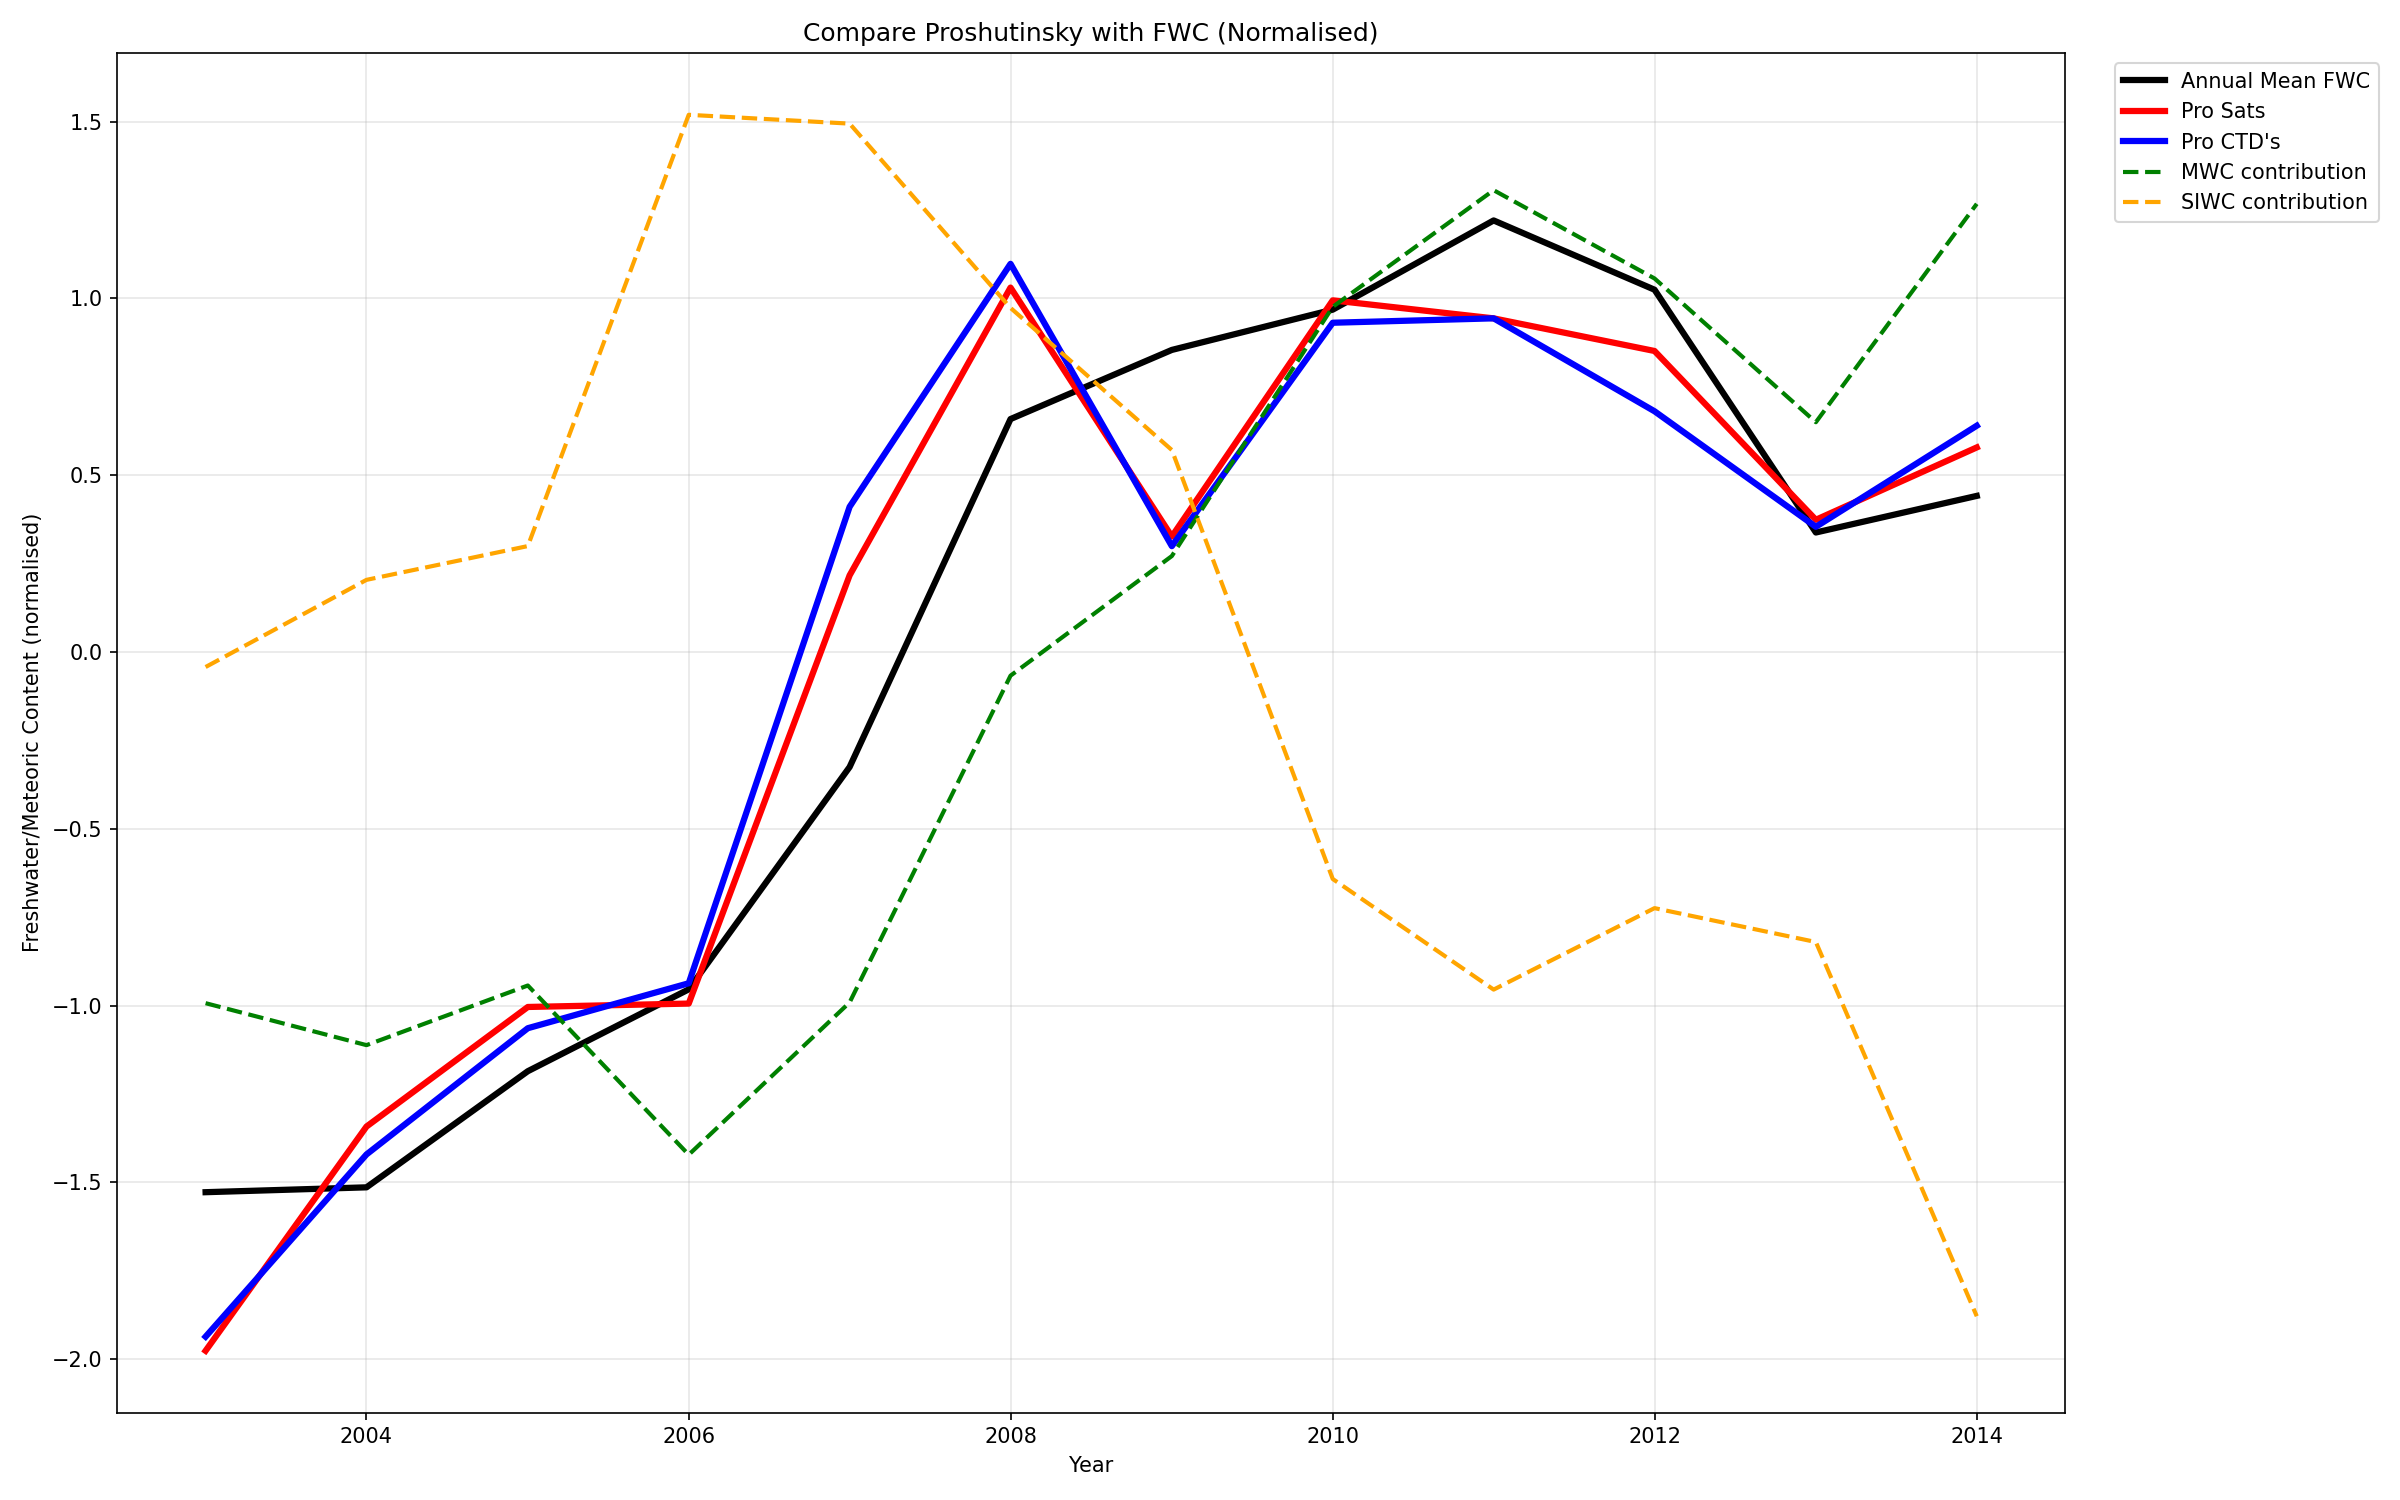
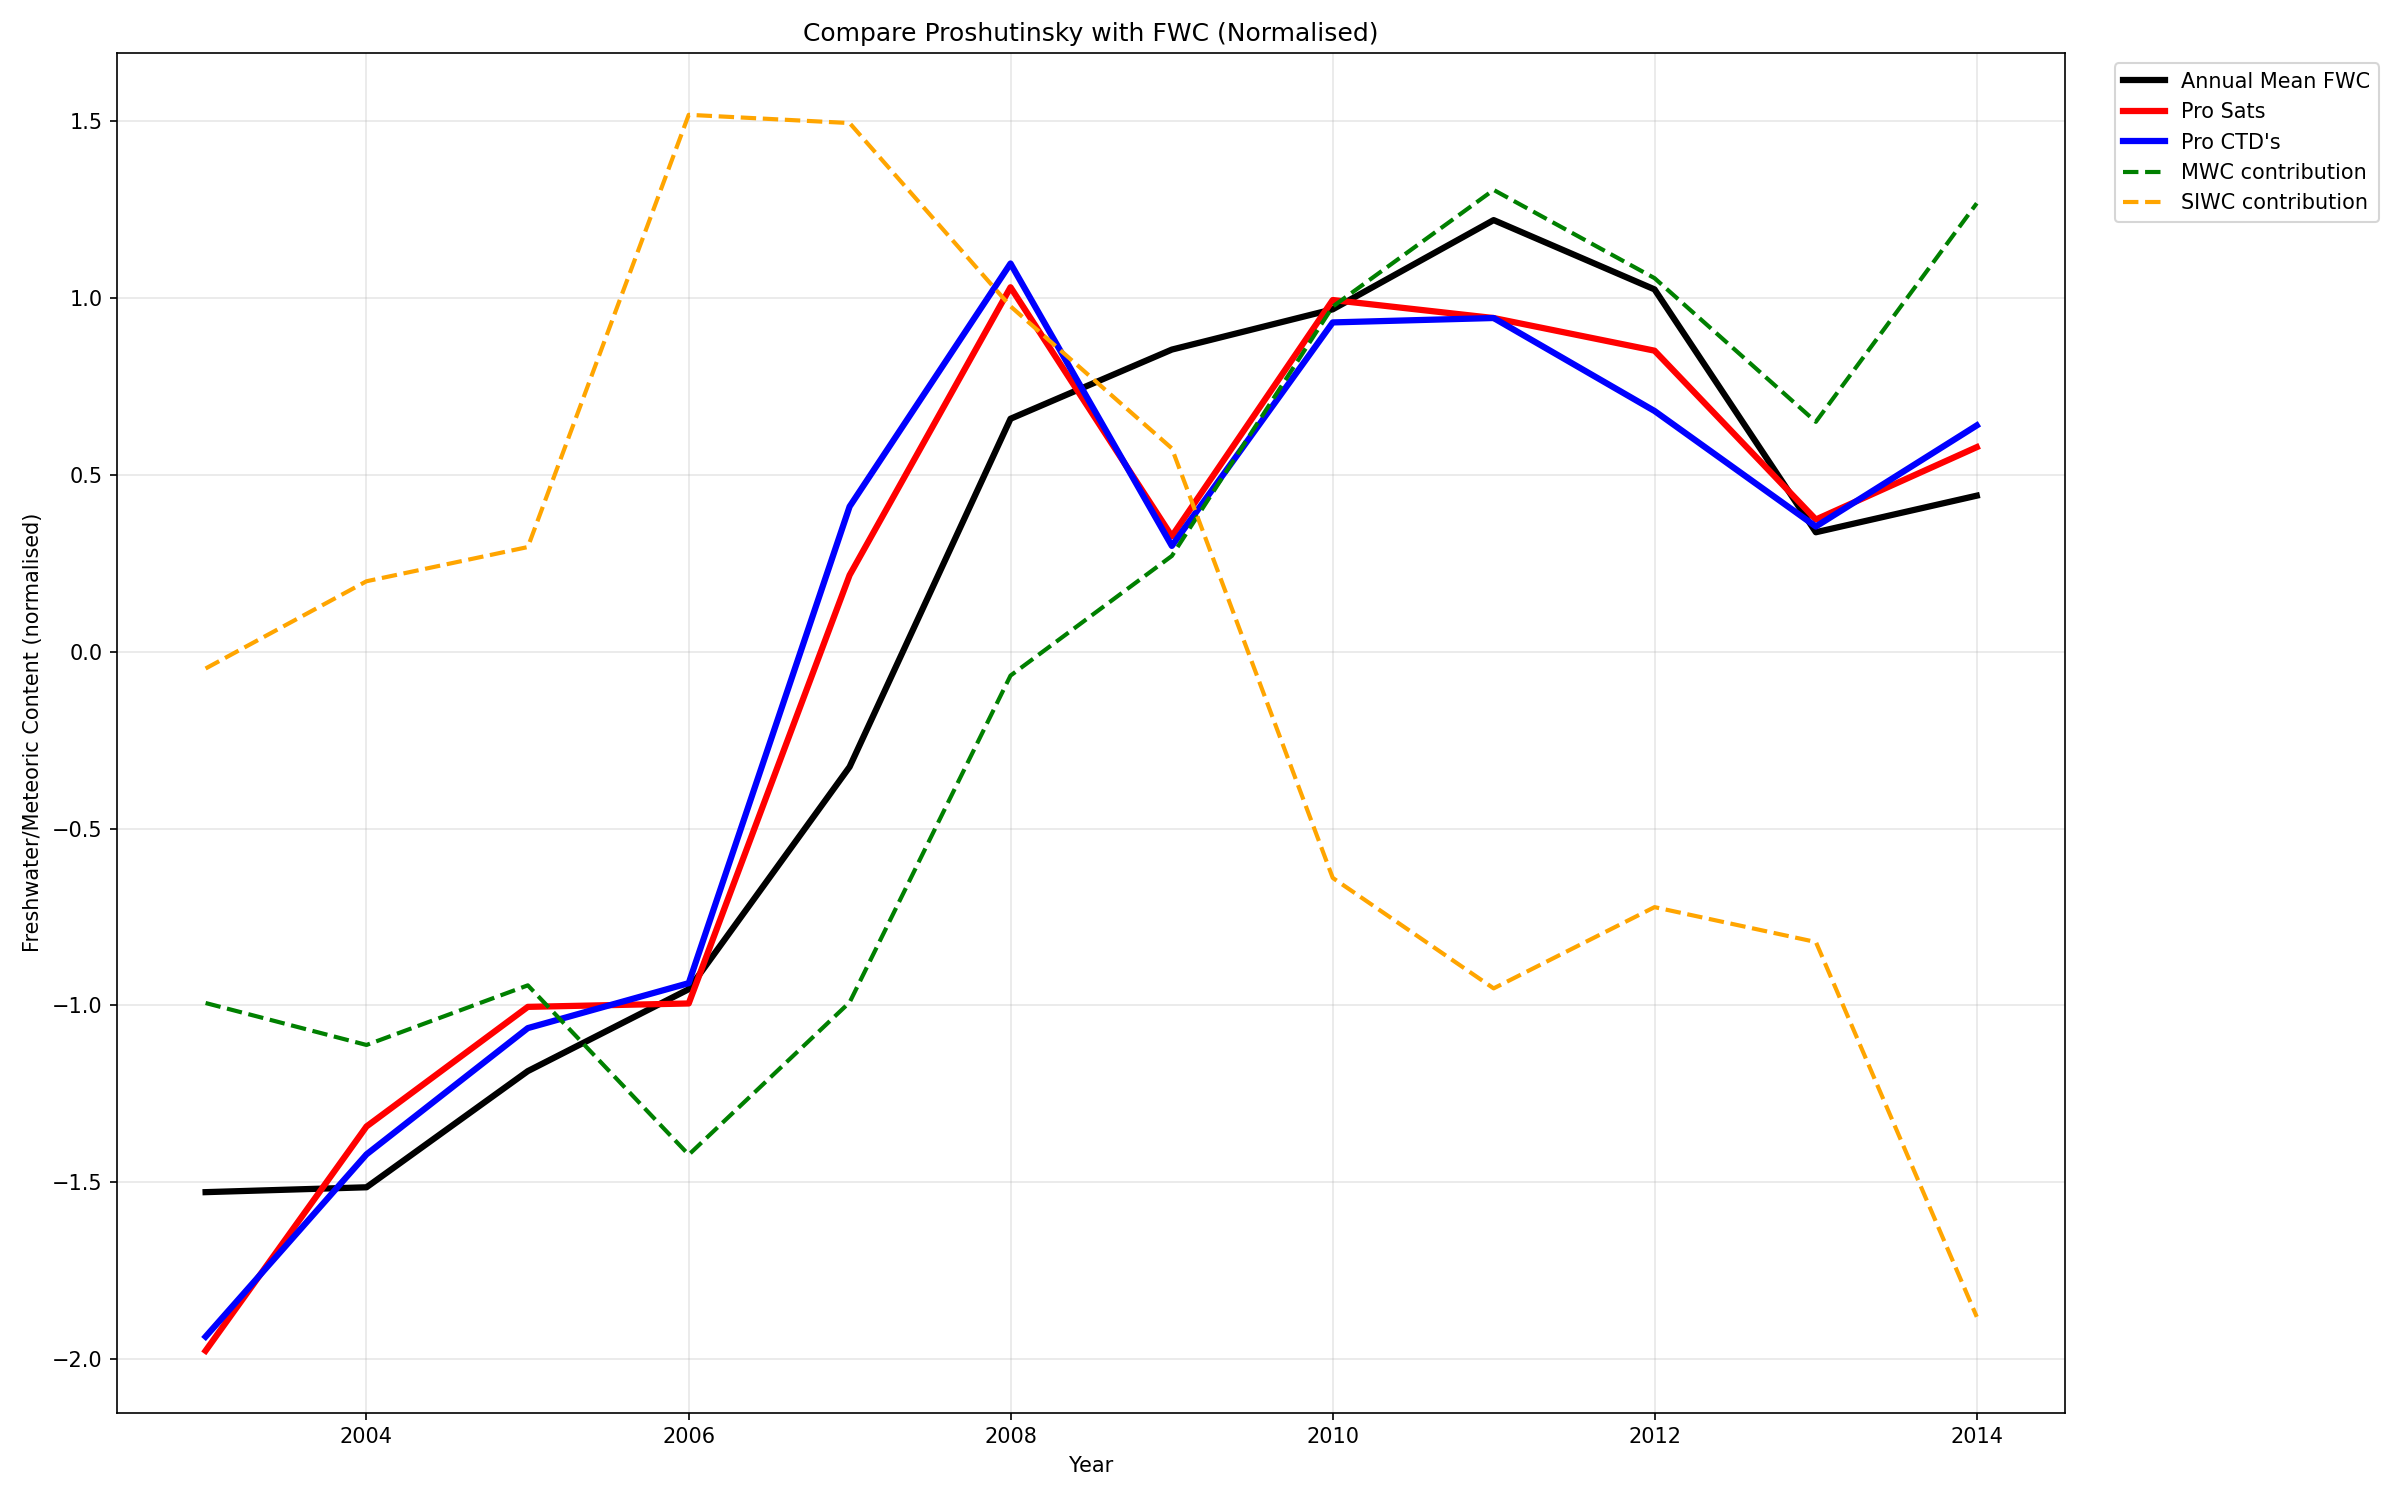
computed using proshutinsky sal ref

Changed region(s): [[0.5625, 0.184, 0.5938, 0.2147], [0.4375, 0.2453, 0.4688, 0.276], [0.4062, 0.184, 0.4375, 0.2147]]

diff --git a/PINN2/mwc.py b/PINN2/mwc.py
@@ -179,7 +179,7 @@ for model_year in model_years:
             return d18O_shallow + w * (d18O_deep - d18O_shallow)
 
         # salinity endmembers
-        S_ocean = 34.87
+        S_ocean = 34.8
         S_meteoric = 0.0
         S_ice = 4.0
 
